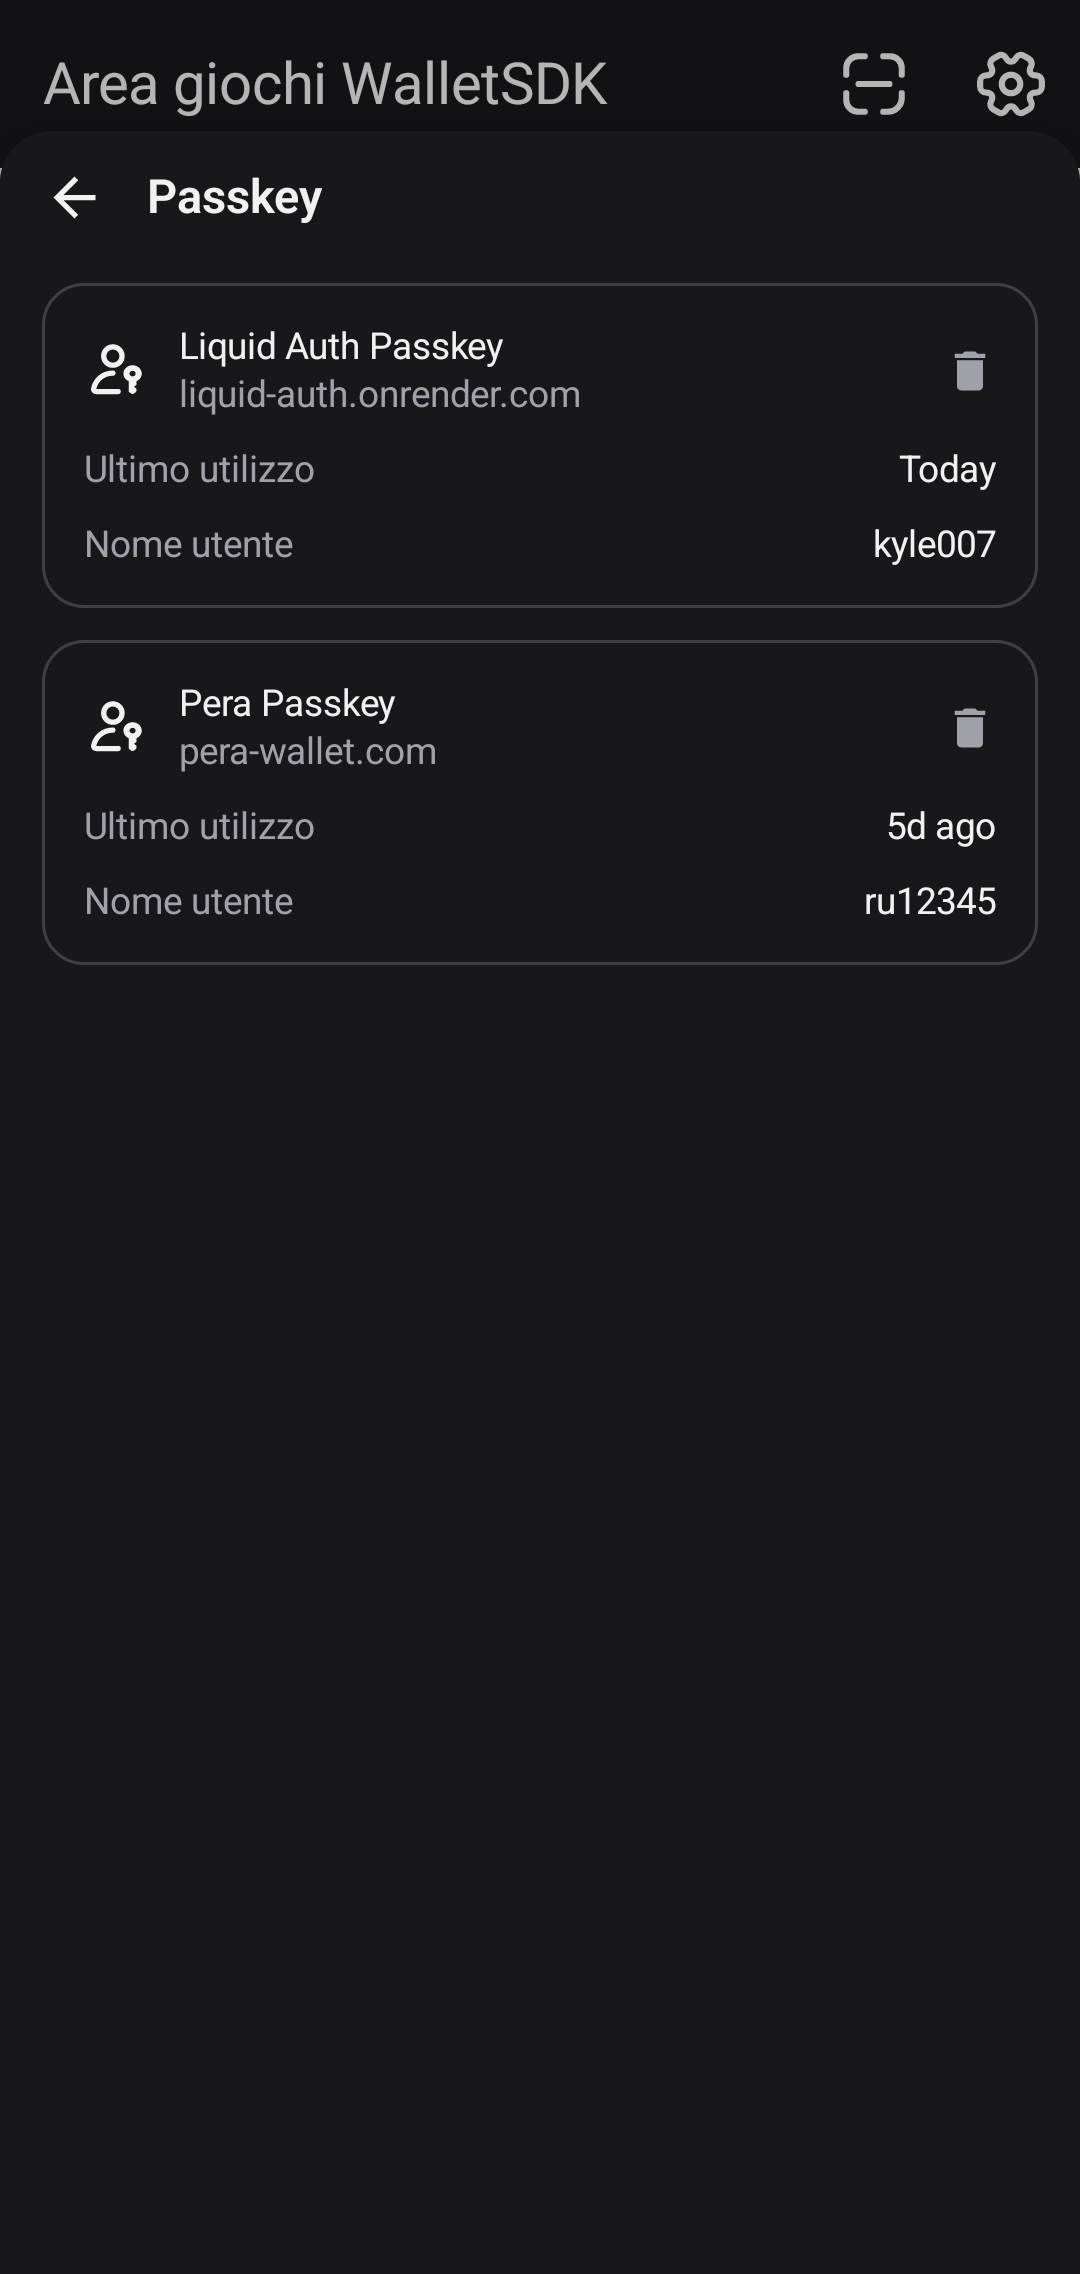
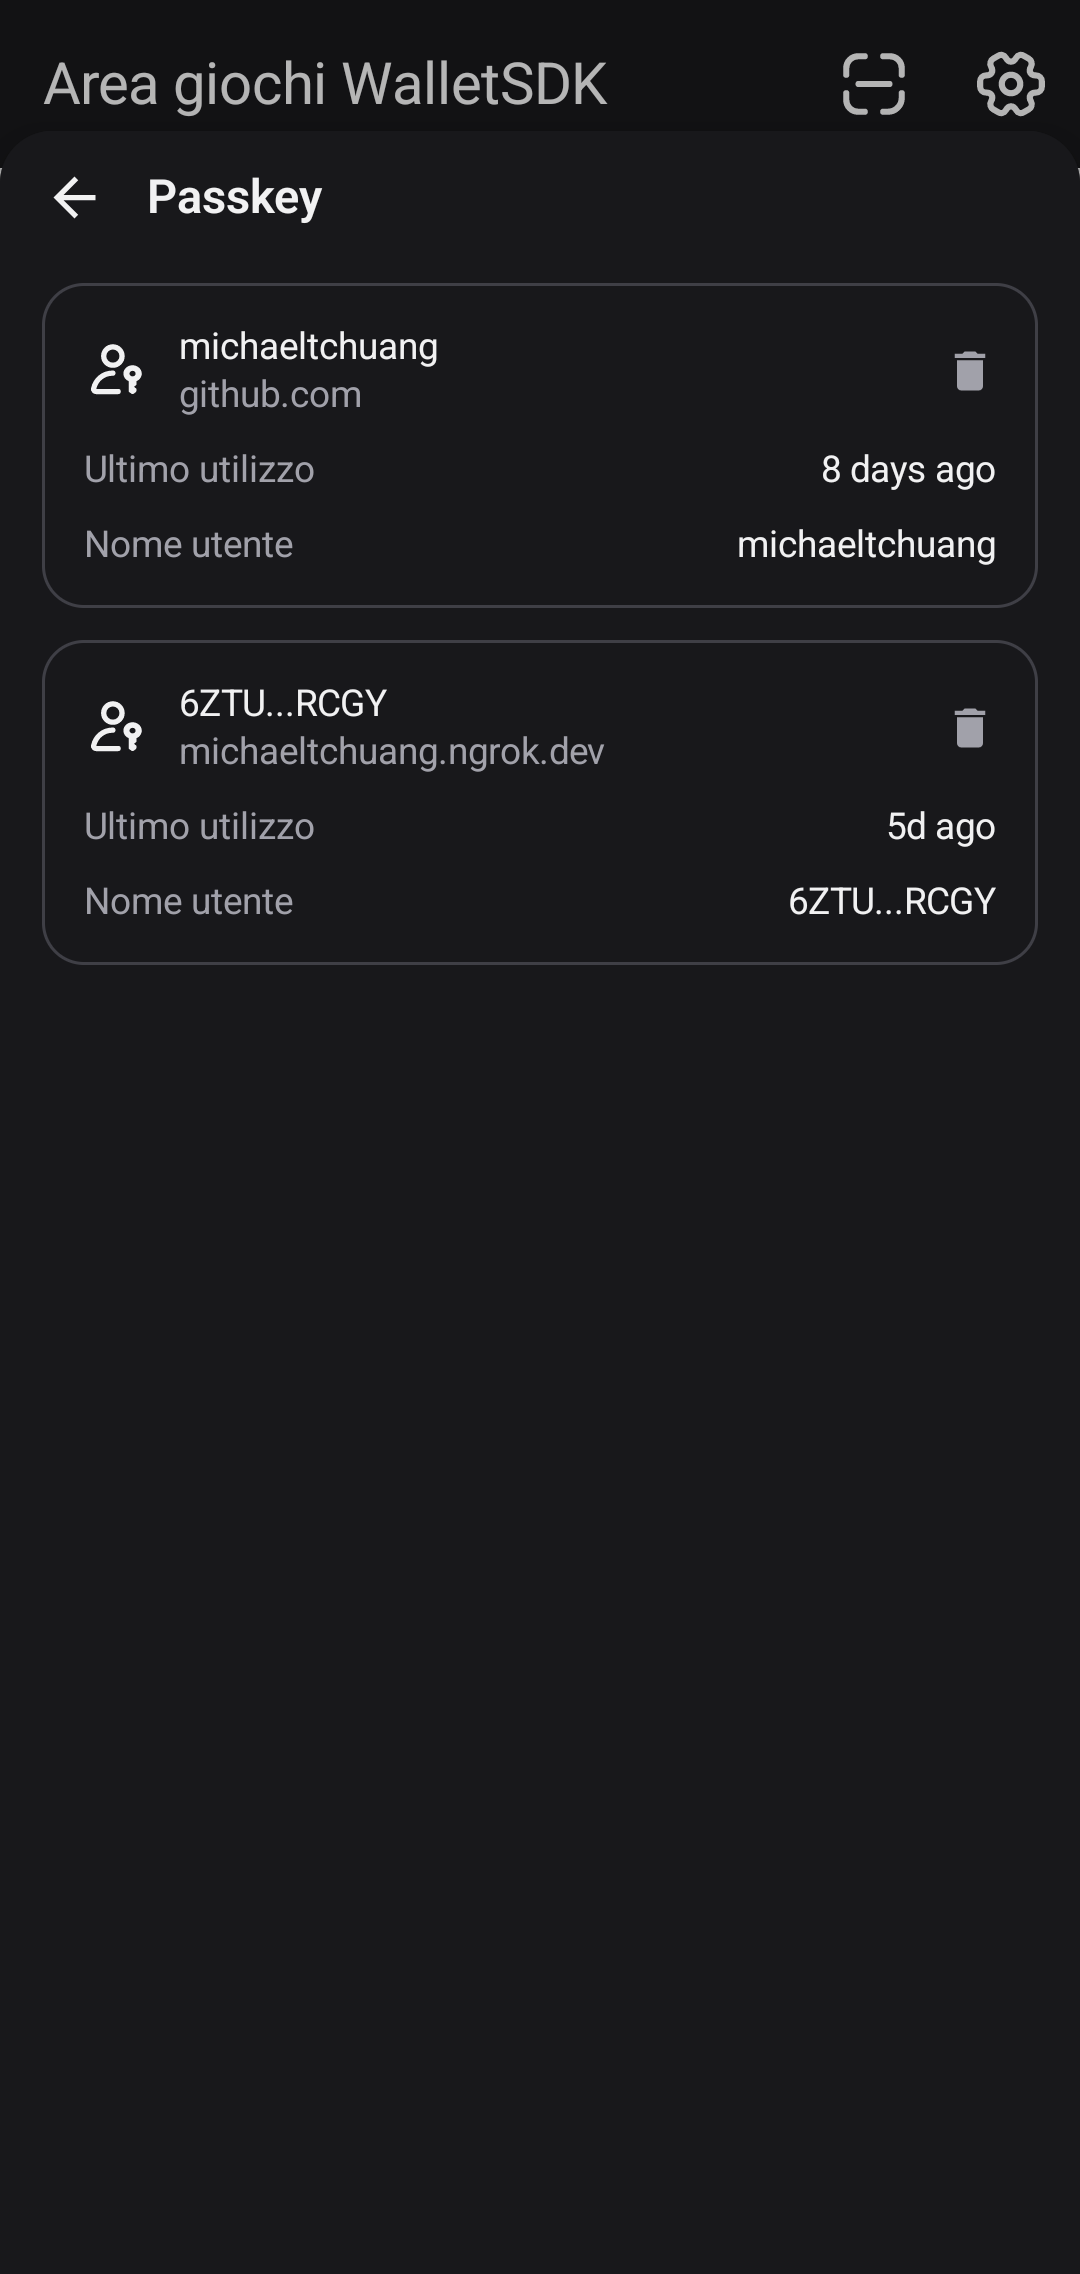
bug: iOS build job crash fixed (#207)

diff --git a/wallet-sdk-core/src/iosMain/kotlin/com/michaeltchuang/walletsdk/core/passkeys/di/PasskeyModule.kt b/wallet-sdk-core/src/iosMain/kotlin/com/michaeltchuang/walletsdk/core/passkeys/di/PasskeyModule.kt
@@ -1,0 +1,24 @@
+package com.michaeltchuang.walletsdk.core.passkeys.di
+
+import com.michaeltchuang.walletsdk.core.passkeys.data.mapper.DefaultPasskeyEntityMapper
+import com.michaeltchuang.walletsdk.core.passkeys.data.mapper.DefaultPasskeyMapper
+import com.michaeltchuang.walletsdk.core.passkeys.data.mapper.PasskeyEntityMapper
+import com.michaeltchuang.walletsdk.core.passkeys.data.mapper.PasskeyMapper
+import com.michaeltchuang.walletsdk.core.passkeys.data.repository.DefaultPasskeyRepository
+import com.michaeltchuang.walletsdk.core.passkeys.domain.repository.PasskeyRepository
+import org.koin.core.module.dsl.singleOf
+import org.koin.dsl.bind
+import org.koin.dsl.module
+
+val passkeyModule =
+    module {
+        // Passkey DAOs from AlgoKitDatabase
+        single { get<com.michaeltchuang.walletsdk.core.foundation.database.AlgoKitDatabase>().passkeyDao() }
+        single { get<com.michaeltchuang.walletsdk.core.foundation.database.AlgoKitDatabase>().passkeySiteDao() }
+
+        // Mappers
+        singleOf(::DefaultPasskeyMapper) bind PasskeyMapper::class
+        singleOf(::DefaultPasskeyEntityMapper) bind PasskeyEntityMapper::class
+        // Repository
+        singleOf(::DefaultPasskeyRepository) bind PasskeyRepository::class
+    }

diff --git a/wallet-sdk-ui/src/androidInstrumentedTest/kotlin/com/michaeltchuang/walletsdk/ui/settings/screens/PasskeysScreenshotTest.kt b/wallet-sdk-ui/src/androidInstrumentedTest/kotlin/com/michaeltchuang/walletsdk/ui/settings/screens/PasskeysScreenshotTest.kt
@@ -16,17 +16,17 @@ class PasskeysScreenshotTest(
                 listOf(
                     PasskeysViewModel.Passkey(
                         credId = "credId123",
-                        title = "Liquid Auth Passkey",
-                        domain = "liquid-auth.onrender.com",
-                        lastUsed = "Today",
-                        username = "kyle007",
+                        title = "michaeltchuang",
+                        domain = "github.com",
+                        lastUsed = "8 days ago",
+                        username = "michaeltchuang",
                     ),
                     PasskeysViewModel.Passkey(
                         credId = "credId124",
-                        title = "Pera Passkey",
-                        domain = "pera-wallet.com",
+                        title = "6ZTU...RCGY",
+                        domain = "michaeltchuang.ngrok.dev",
                         lastUsed = "5d ago",
-                        username = "ru12345",
+                        username = "6ZTU...RCGY",
                     ),
                 )
             val fakeViewState = PasskeysViewModel.ViewState.Content(passkeys = fakePasskeys)

diff --git a/wallet-sdk-ui/src/androidMain/kotlin/com/michaeltchuang/walletsdk/ui/liquidAuth/AnswerViewModel.kt b/wallet-sdk-ui/src/androidMain/kotlin/com/michaeltchuang/walletsdk/ui/liquidAuth/AnswerViewModel.kt
@@ -498,16 +498,15 @@ class AnswerViewModel(
                     onCredentialNotFound = { onCredentialNotFound?.invoke() },
                 )
             when (result) {
-                is PrepareAuthenticationUseCase.Result.Success ->{
+                is PrepareAuthenticationUseCase.Result.Success -> {
                     eventDelegate.sendEvent(
                         ViewEvent.AuthenticationSuccess(
                             result.publicKeyCredentialRequestOptions,
                             credentialId,
                         ),
                     )
-                    setPasskeyLastUsedTime(credentialId,timeProvider.getCurrentTimeMillis())
+                    setPasskeyLastUsedTime(credentialId, timeProvider.getCurrentTimeMillis())
                 }
-
 
                 is PrepareAuthenticationUseCase.Result.CredentialNotFound ->
                     eventDelegate.sendEvent(

diff --git a/wallet-sdk-core/src/iosMain/kotlin/com/michaeltchuang/walletsdk/core/foundation/di/PlatformKoinModule.ios.kt b/wallet-sdk-core/src/iosMain/kotlin/com/michaeltchuang/walletsdk/core/foundation/di/PlatformKoinModule.ios.kt
@@ -2,10 +2,12 @@ package com.michaeltchuang.walletsdk.core.foundation.di
 
 import com.michaeltchuang.walletsdk.core.foundation.database.AlgoKitDatabase
 import com.michaeltchuang.walletsdk.core.foundation.database.getAlgoKitDatabase
+import com.michaeltchuang.walletsdk.core.passkeys.di.passkeyModule
 import org.koin.core.module.Module
 import org.koin.dsl.module
 
 internal actual fun platformKoinModule(): Module =
     module {
         single<AlgoKitDatabase> { getAlgoKitDatabase() }
+        includes(passkeyModule)
     }

diff --git a/wallet-sdk-ui/src/commonMain/kotlin/com/michaeltchuang/walletsdk/ui/onboarding/screens/AddressNamingScreen.kt b/wallet-sdk-ui/src/commonMain/kotlin/com/michaeltchuang/walletsdk/ui/onboarding/screens/AddressNamingScreen.kt
@@ -25,7 +25,6 @@ import androidx.compose.ui.unit.dp
 import androidx.lifecycle.compose.collectAsStateWithLifecycle
 import androidx.navigation.NavController
 import androidx.navigation.compose.rememberNavController
-import com.michaeltchuang.walletsdk.core.algosdk.isValidAlgorandAddress
 import com.michaeltchuang.walletsdk.core.foundation.utils.Log
 import com.michaeltchuang.walletsdk.core.foundation.utils.toShortenedAddress
 import com.michaeltchuang.walletsdk.ui.base.designsystem.theme.AlgoKitTheme

diff --git a/README.md b/README.md
@@ -150,6 +150,12 @@ This project is developed using [Android Studio](https://developer.android.com/s
 
 This command will run all screenshot tests and save the captured screenshots as reference images.
 
+```bash
+./gradlew :wallet-sdk-ui:executeScreenshotTests -Pandroid.testInstrumentationRunnerArguments.class=com.michaeltchuang.walletsdk.ui.settings.screens.PasskeysScreenshotTest -Precord
+```
+
+This command will run screenshot tests for a single class and save the captured screenshots as reference images.
+
 **Verify Screenshots:**
 
 ```bash
